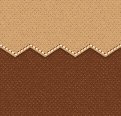
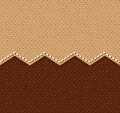
story

diff --git a/app/assets/stylesheets/global.sass b/app/assets/stylesheets/global.sass
@@ -204,7 +204,7 @@ body
 .uebergang3
   background-image: url(image_path('pattern_uebergang3.jpg'))
   background-repeat: repeat-x
-  height: 116px
+  height: 113px
 
 .uebergang4
   background-image: url(image_path('pattern_uebergang4.jpg'))
